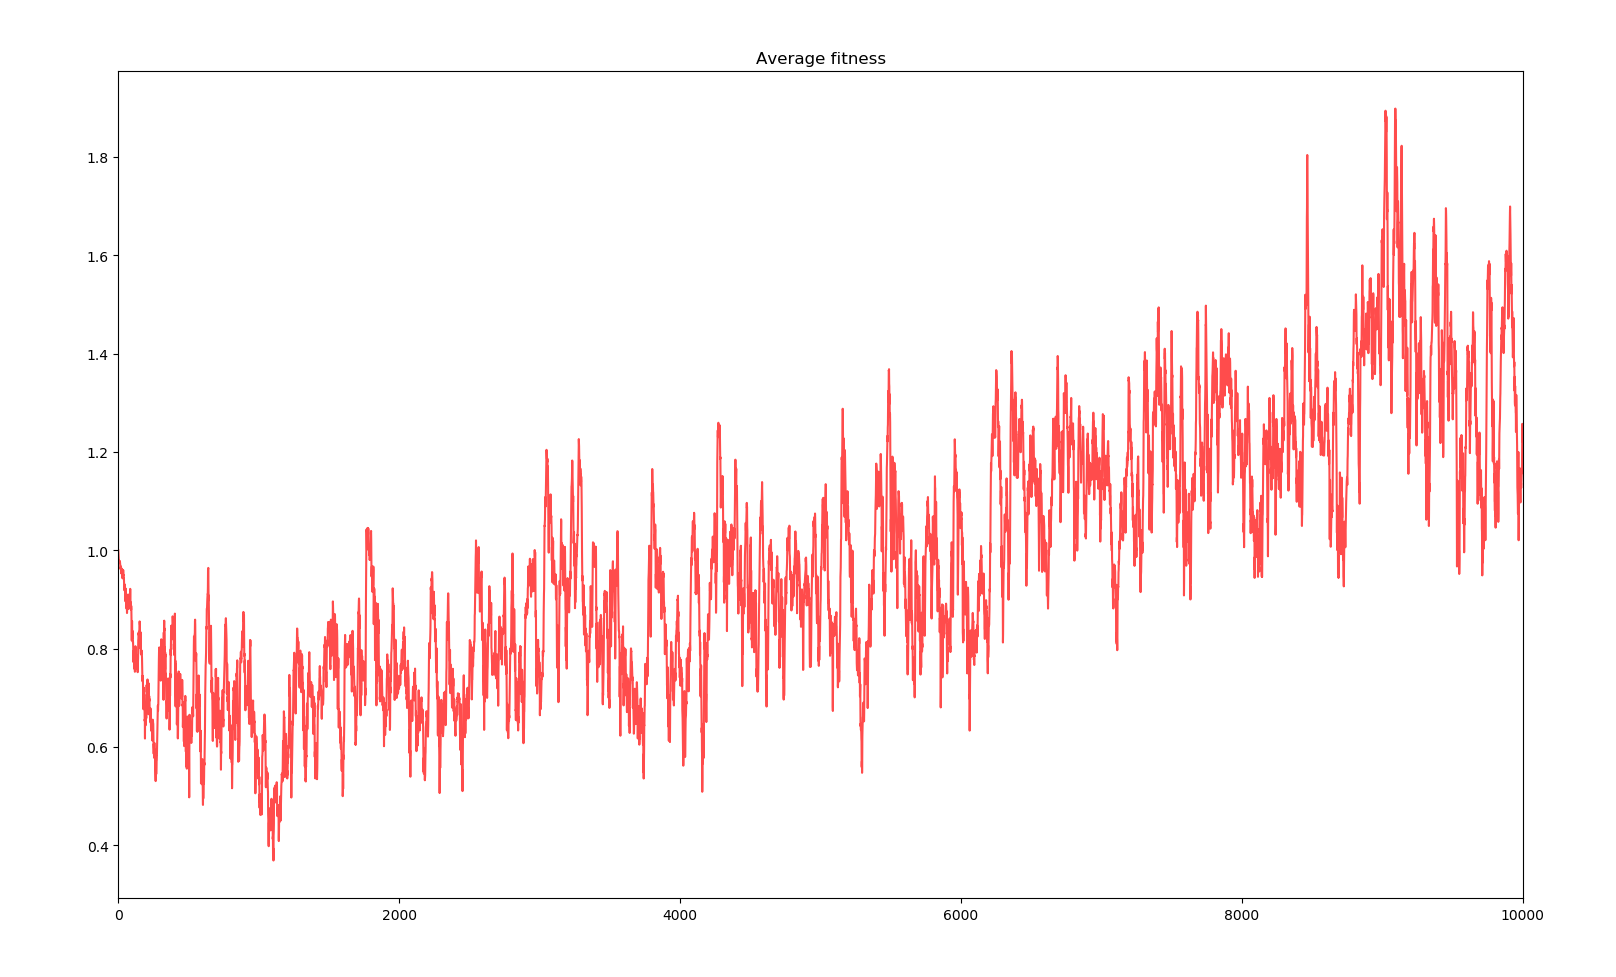
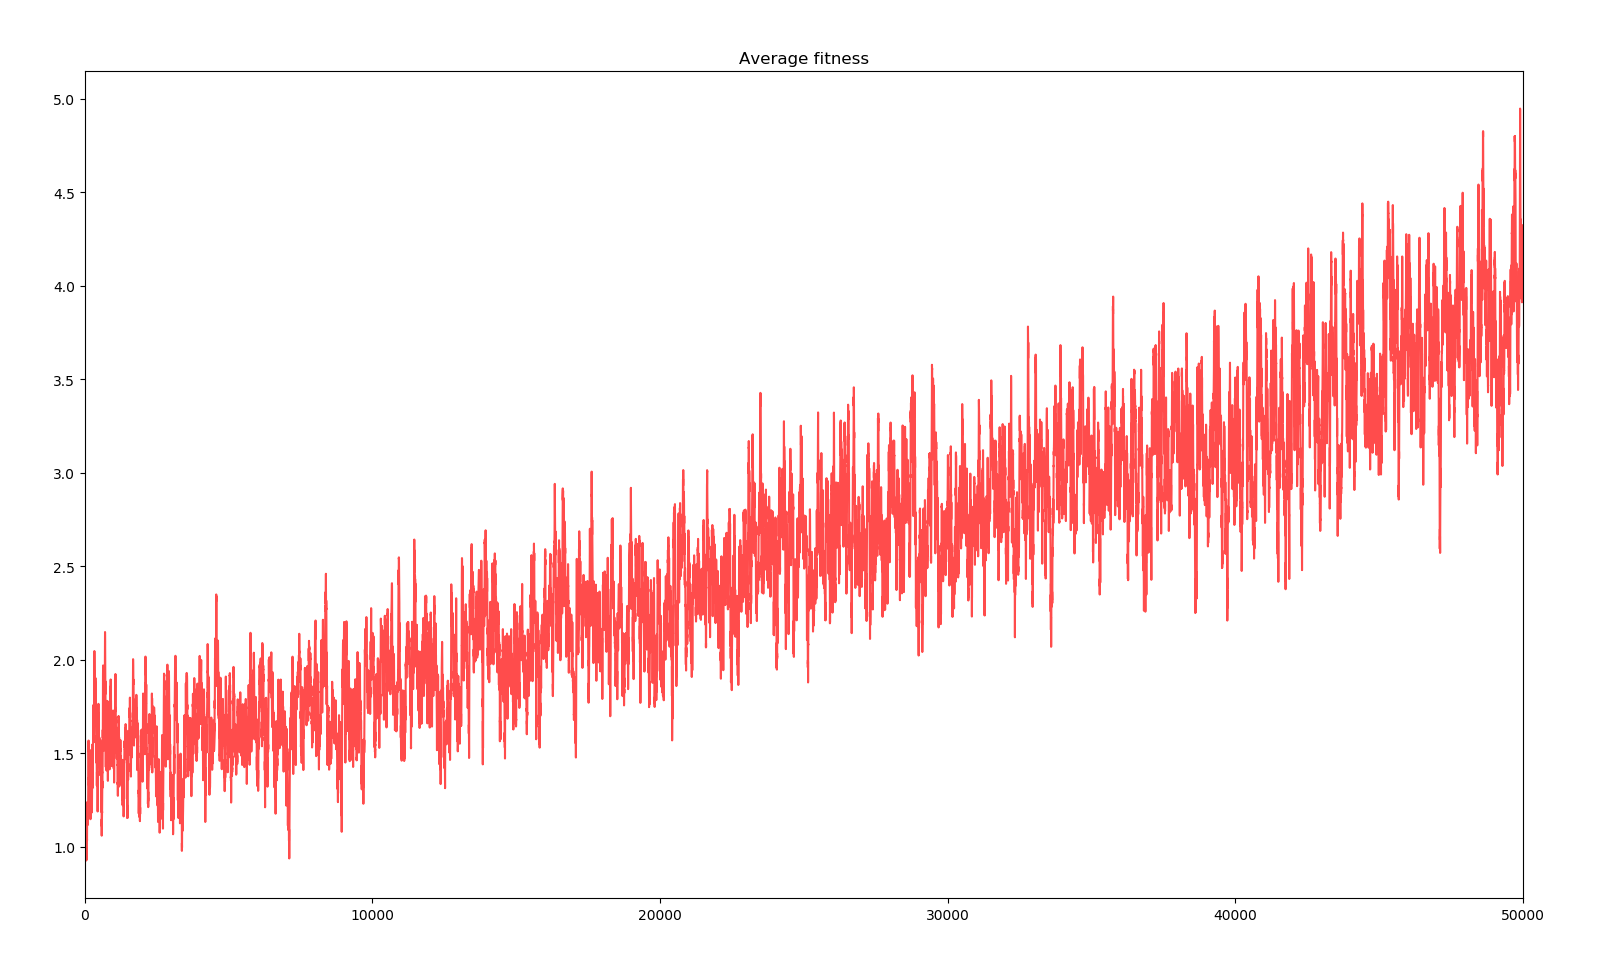
evosim

diff --git a/evosim.html b/evosim.html
@@ -489,13 +489,25 @@
             Fifth version
         </p>
         <p class="text">
-            In real life biology, genes don't just appear and disappear. The gene system now allows gene duplication (copy), modification (effect is changed with the same distribution as for a gene creation), turn off (the effect is no longer counted in the fitness of the creature) and turn off. A duplicated gene is set to inactive and needs to be turned on. Gene deletion still happens with a lower probability. Gene creation no longer exists. New genes appear with a duplication followed by a turning on. Maybe two duplicated genes should not be active at the same time and a gene modificaiton should be required but it is not how it works in this iteration.
+            In real life biology, genes don't just appear and disappear. The gene system now allows gene duplication (copy), modification (effect is changed with the same distribution as for a gene creation), turn off (the effect is no longer counted in the fitness of the creature) and turn on. A duplicated gene is set to inactive and needs to be turned on. Gene deletion still happens with a lower probability. Gene creation no longer exists. New genes appear with a duplication followed by a modification mutation and a turning on mutation.
         </p>
         <p class="text">
-            Actually, real genes are based on DNA sequence and the mutation affects this sequence of letters through insersions, deletions, duplications and other more complicated mutations. However, for this simulation, the simplifications made above are accurate enough.
+            When a gene is duplicated, an issue appears : if it is copied with its effect but just turned off, then a simple turn on mutation is enough to double the effect of the original gene, something that doesn't really mirror real life. In real life, genes encode for proteins and having two copies of the gene doesn't just double the effect of the protein. Therefore, copied genes are set to a null effect as well as turned off.
         </p>
         <p class="text">
-            Another modification necessary for this new system to work was to replace the base fitness of $$1.0$$ by a base set of $$20$$ genes each with a value of $$0.05$$.
+            Actually, real genes are based on DNA sequence and the mutation affects this sequence of letters, base pairs, through insersions, deletions, duplications and other more complicated mutations. However, for this simulation, the simplifications made above are accurate enough.
+        </p>
+        <p class="text">
+            To set the probabilities, I turned once again to the litterature. I'm not a biologist and searching the litterature often without access to the full papers makes finding what I'm looking for tricky. My main source for duplication and deletion rates is <i>Copy-number changes in evolution: rates, fitness effects and adaptive significance - Katju et al. Frontiers in Genetics 10 December 2013</i>, a meta study on the topic. From this, we get a duplication rate of $$10^{-3}$$ to $$10^{-5}$$ per gene per generation for prokaryotes such as bacterias and $$10^{-5}$$ to $$10^{-7}$$ per gene per generation for eukaryotes such as human sperm. The deletion rate in bacteria is estimated to be around $$10^{-4}$$ to $$10^{-8}$$ per gene per generation for bacterias and $$10^{-5}$$ to $$10^{-6}$$ per gene per generation for human sperm and up to $$10^{-7}$$ per gene per generation in genome-wise estimations for other species (a small worm and an insect).
+        </p>
+        <p class="text">
+            For the gene modification mutation rate, in real life, base pairs mutations occur with a probability of about $$10^{-9}$$ per letters of the genome sequence. A gene is coded by about 1000 base pairs per year. Therefore a typical bacteria with around 1000 genes, $$10^6$$ base pairs, would have a mutation rate of $$10^{-3}$$. According to <i>Rates of spontaneous mutation - Drake JW et al. Genetics 148 (4) 1667-86 April 1998</i>, it actually is about 0.003 mutations per genome per cell generation, close enough to my back-of-the-enveloppe calculation.
+        </p>
+        <p class="text">
+            Gene turn on and off is a bit more difficult to estimate. In biology, genes can be turned on and off, such as genes in humans to produce certains vitamins we now need to get from food, but there is also gene expression. As I could not find freely available papers on the topic with clear figures, I'm gonna make a rough estimate and say it has a higher probability than the other mutations.
+        </p>
+        <p class="text">
+            Another modification necessary for this new system to work was to replace the base fitness of $$1.0$$ by an equivalent base set of $$50$$ genes each with a value of $$0.02$$.
         </p>
         <table>
             <tr>
@@ -511,12 +523,12 @@
             <tr>
                 <th>$$n_0$$</th>
                 <th>Initial number of genes</th>
-                <th>$$20$$</th>
+                <th>$$50$$</th>
             </tr>
             <tr>
                 <th>$$g_0$$</th>
                 <th>Initial genes values</th>
-                <th>$$0.05$$</th>
+                <th>$$0.02$$</th>
             </tr>
             <tr>
                 <th>$$E_0$$</th>
@@ -576,12 +588,12 @@
             <tr>
                 <th>$$p_{gd}$$</th>
                 <th>Gene deletion probability</th>
-                <th>$$0.005$$</th>
+                <th>$$0.000001$$</th>
             </tr>
             <tr>
                 <th>$$p_{gc}$$</th>
                 <th>Gene copy probability</th>
-                <th>$$0.002$$</th>
+                <th>$$0.0001$$</th>
             </tr>
             <tr>
                 <th>$$p_{gon}$$</th>
@@ -596,7 +608,7 @@
             <tr>
                 <th>$$p_{gm}$$</th>
                 <th>Gene modification probability</th>
-                <th>$$0.01$$</th>
+                <th>$$0.003$$</th>
             </tr>
             <tr>
                 <th>$$\gamma_{g}$$</th>
@@ -623,16 +635,37 @@
             </p>
         </div>
         <p class="text">
-            Here the results are very different from the previous versions. At first, we can observe a dip in average fitness for the first 1000 years. This can be explained as the only mutations for the basic set of genes is : modification, and the modifications will most likely be worse, turn off and deletion which also reduces the fitness of creatures, and copy which creates an inactive gene useless until turned on by another mutation. Even as the average fitness drops, the number of genes increases. Then the fitness increases as copied genes are turned on.
+            In Python, a simulation of the first 2000 years takes about 4 seconds on my computer and the simulations slows down as the number of genes increases to 8 seconds for the years 48000 to 50000. If the number of genes keeps increasing linearly, a simulation of a million years would take at least 6 hours ; and 3 weeks for ten million years ! Increasing the population to something more akin that of a species and the number of genes to that of even a small bacteria with about 1000 genes would make the simulation take years on my poor poor computer.
         </p>
         <p class="text">
-            In real life, mutations occur with a probability of about $$10^{-9}$$ per letters of the genome sequence. A gene is coded by about 1000 base pairs per year. Therefore a bacteria with 1000 genes, $$10^6$$ base pairs, would have a mutation rate of $$10^{-3}$$. According to <i>Rates of spontaneous mutation - Drake JW et al. Genetics 148 (4) 1667-86 April 1998</i>, it actually is about 0.003 mutations per genome per cell generation, close enough to my back-of-the-enveloppe calculation.
-        </p>
-        <p class="text">
-            The fitness spectrum is a complete mess. Mutations are way to frequent. Reducing the probabilities of mutations is necessary to obtain cleaner data and a more realistic simulation. However that requires to make the simulation several orders of magnitude longer, thus making the computation time longer as well. In Python, a simulation of 10000 years takes about 12 seconds on my computer and the simulations slows down as the number of genes increases. A simulation of a million years would take at least 20 minutes ; and 2 weeks for one billion years ! Increasing the population to something more akin that of a species and the number of genes to that of even a small bacteria with about 1000 genes would make the simulation take years on my poor poor computer.
+            However, even starting at only 50 genes, it reaches 140 genes in only 50000 years. If it does continue linearly, after a million years, each creature will have about 1850 genes, 18000 after ten million years. Viruses have less than 100 protein-coding genes. Prokaryotes such as bacterias have between 500 to 5000. Eukaryotes have at least in the 10000, and humans have over three billion ! Therefore our simulated creature jumps from virus to fongus in ten million years in term of genome size and even to small animal in one order of magnitude longer. That is why it might be interesting to slow down this growth in future version by, for instance, making the creature consume more energy with the size of its genome. But then the supply from the environment won't be enough to carry a sufficient population. Therefore a larger overhaul of the simulation would be required.
         </p>
 
 
+
+
+        <p class="section">
+            Bacteria colony
+        </p>
+        <p class="text">
+            Just for fun, I wanted to simulate a colony of bacteria. From what I read, a typical innoculation of a pitri dish consists of about $$10^{-4}$$ organisms and a typical bacteria has about 1000 genes. The yearly supply of food has also been updates to carry around 1000 bacterias. The simulation used 1Gb of RAM and 25% of my Intel Core i78650U running at about 3GHz due to thermal throttle.
+        </p>
+        <div class="image_block">
+            <img class="image_bigger" src="evosim_5_col_avgfit.png" alt="">
+            <img class="image_bigger" src="evosim_5_col_popsize.png" alt="">
+            <img class="image_bigger" src="evosim_5_col_nbrgenes.png" alt="">
+            <img class="image_bigger" src="evosim_5_col_spcfit.png" alt="">
+            <p class="caption">
+                Simulation of bacteria colony for 1000 generations
+            </p>
+        </div>
+        <p class="text">
+            We can observe two main phases. The first 50 years see a sudden jump in average fitness increasing 2700%. The population size also does some crazy jumps above and bellow the equilibrium. This phase corresponds to all the base genes undergoing modification mutations and having a reroll close to the most positive effects the random distribution can probabilistically give. Then, the next phase sees a slower evolution in the order of 1 fitness point per 1000 years. Here, further evolution requires the creation of new genes through duplication, modification and activation. The existance of the first phase is due to the initial genome given to creatures. A more realistic bacteria would have evolved more effective genes before reaching such a large genome. 
+        </p>
+
+        <p class="section">
+            Sixth version
+        </p>
         <p class="text">
             sixth version : food not entiery distributed, new selectivity
         </p>
